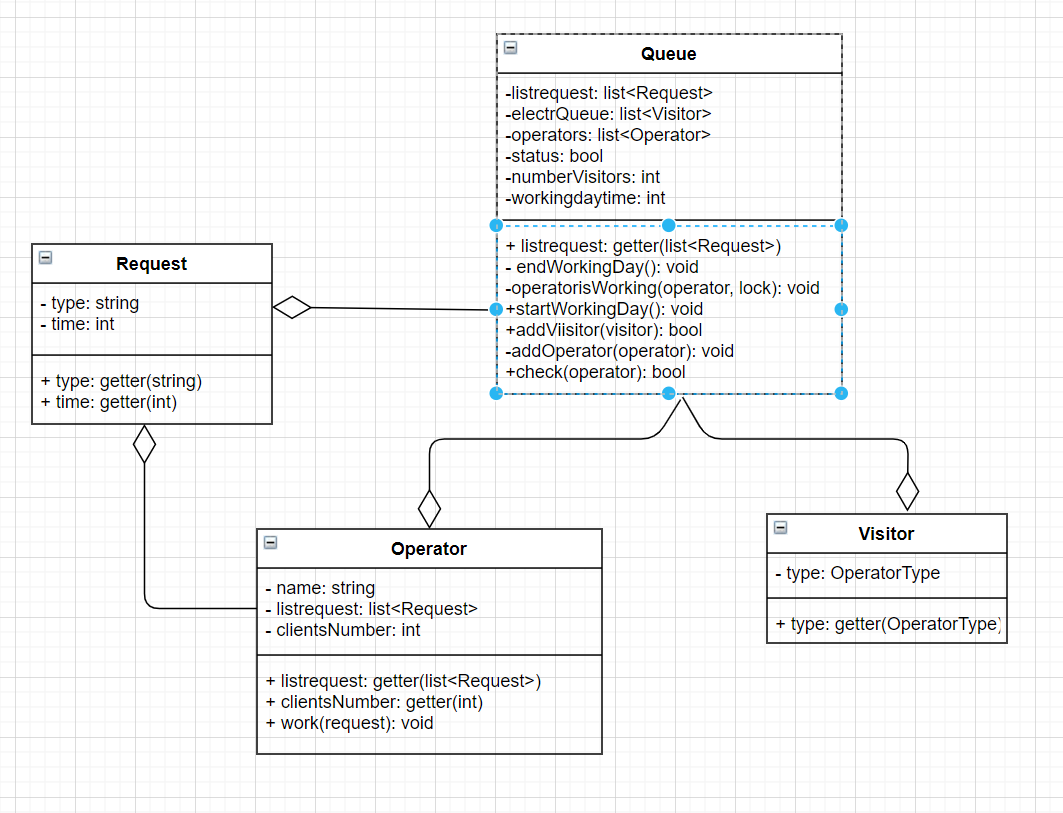
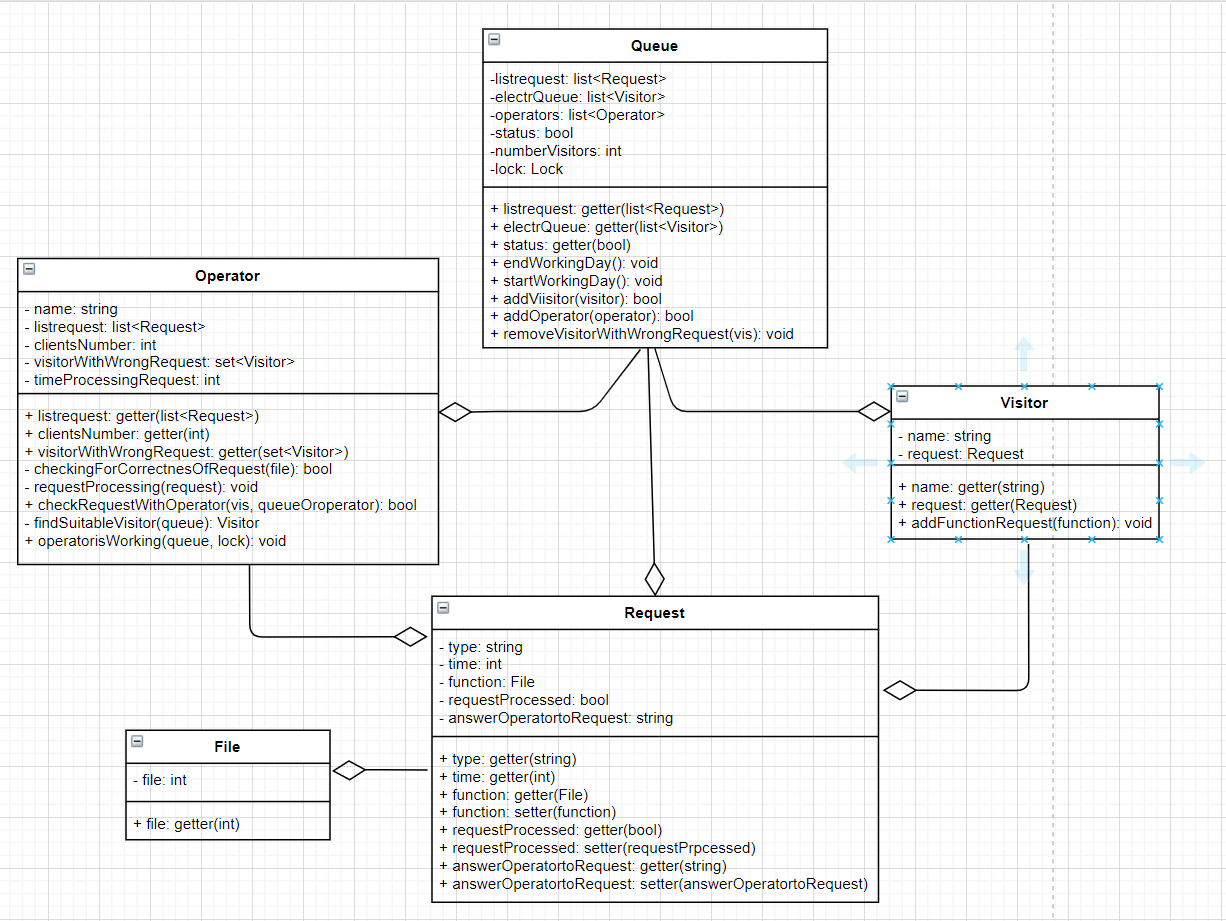
add file

diff --git a/3/electrqueue.py b/3/electrqueue.py
@@ -1,14 +1,15 @@
 import threading
-class Queue():
-    __slots__ = ['__electrQueue', '__operators', '__listrequest', '__status', '__numberVisitors', '__workingDayTime' ]
 
-    def __init__(self, workingdaytime, listrequest):
+class Queue():
+    __slots__ = ['__electrQueue', '__operators', '__listrequest', '__status', '__numberVisitors', '__lock']
+
+    def __init__(self, listrequest):
         self.__listrequest = listrequest
         self.__electrQueue = list()
         self.__operators = list()
         self.__status = False
         self.__numberVisitors = 0
-        self.__workingDayTime = workingdaytime
+        self.__lock = threading.Lock()
 
     def __str__(self):
         return 'In queue {} visitors'.format(len(self.__electrQueue))
@@ -22,49 +23,37 @@ class Queue():
     def listrequest(self):
         return self.__listrequest
 
-    def __endWorkingDay(self):
-        self.__status = False
-        while True:
-            if threading.active_count() == 2:
-                break
+    @property
+    def electrQueue(self):
+        return self.__electrQueue
 
-    def __operatorisWorking(self, operator, lock):
-        while self.__status:
-            lock.acquire()
-            if len(self.__electrQueue):
-                vis = self.__electrQueue[-1]
-                for request in operator.listrequest:
-                    if vis.type == request.type:
-                        self.__electrQueue.pop()
-                        lock.release()
-                        operator.work(request)
-                        break
-                else:
-                    lock.release()
-            else:
-                lock.release()
+    @property
+    def status(self):
+        return self.__status
+
+    def endWorkingDay(self):
+        self.__status = False
 
     def startWorkingDay(self):
         self.__status = True
-        lock = threading.Lock()
         for op in self.__operators:
-            threading.Thread(target=self.__operatorisWorking, args=[op, lock]).start()
-        threading.Timer(self.__workingDayTime, self.__endWorkingDay).start()
+            threading.Thread(target=op.operatorisWorking, args=[self, self.__lock]).start()
 
     def addVisitor(self, visitor):
         for op in self.__operators:
-            for request in op.listrequest:
-                if visitor.type == request.type:
-                    self.__electrQueue.append(visitor)
-                    self.__numberVisitors += 1
-                    return True
+            if op.checkRequestWithOperator(visitor, False):
+                self.__electrQueue.append(visitor)
+                self.__numberVisitors += 1
+                return True
+        visitor.request.requestProcessed = False
         return False
 
-    def __addOperator(self, operator):
-        self.__operators.append(operator)
-
-    def check(self, operator):
+    def addOperator(self, operator):
         if set(operator.listrequest).isdisjoint(self.listrequest):
             return False
         else:
-            self.__addOperator(operator)
+            self.__operators.append(operator)
+
+    def removeVisitorWithWrongRequest(self, vis):
+        for op in self.__operators:
+            op.visitorWithWrongRequest.discard(vis)

diff --git a/3/operatr.py b/3/operatr.py
@@ -1,12 +1,14 @@
 import time
 
 class Operator():
-    __slots__ = ['__name', '__listrequest', '__clientsNumber']
+    __slots__ = ['__name', '__listrequest', '__clientsNumber', '__visitorWithWrongRequest', '__timeProcessingRequest']
 
     def __init__(self, name, listrequest):
         self.__name = name
         self.__listrequest = listrequest
         self.__clientsNumber = 0
+        self.__visitorWithWrongRequest = set()
+        self.__timeProcessingRequest = None
 
     def __del__(self):
         print('{} serve {} visitors'.format(self.__name, self.__clientsNumber))
@@ -19,6 +21,57 @@ class Operator():
     def clientsNumber(self):
         return self.__clientsNumber
 
-    def work(self, request):
+    @property
+    def visitorWithWrongRequest(self):
+        return self.__visitorWithWrongRequest
+
+    def __checkingForСorrectnesOfRequest(self, file):
+        if(file > 5):
+            return True
+        else:
+            return False
+
+    def __requestProcessing(self, request):
         self.__clientsNumber += 1
-        time.sleep(request.time)
+        correct = self.__checkingForСorrectnesOfRequest(request.function.file)
+        time.sleep(self.__timeProcessingRequest)
+        if(correct):
+            request.requestProcessed = True
+            request.answerOperatortoRequest = 'File more than 5'
+        else:
+            request.requestProcessed = False
+            request.answerOperatortoRequest = 'File less than 5'
+
+    def checkRequestWithOperator(self, vis, queueOroperator = True):
+        for request in self.__listrequest:
+            if vis.request.type == request.type:
+                if queueOroperator:
+                    self.__timeProcessingRequest = request.time
+                return True
+        return False
+
+    def __findSuitableVisitor(self, queue):
+        if len(queue.electrQueue):
+            vis = queue.electrQueue[0]
+            index = 1
+            while vis in self.__visitorWithWrongRequest and index < len(queue.electrQueue):
+                vis = queue.electrQueue[index]
+                index += 1
+            if self.checkRequestWithOperator(vis):
+                queue.removeVisitorWithWrongRequest(vis)
+                queue.electrQueue.remove(vis)
+                return vis
+            else:
+                self.__visitorWithWrongRequest.add(vis)
+                return None
+        else:
+            return None
+
+    def operatorisWorking(self, queue, lock):
+        while queue.status:
+            lock.acquire()
+            vis = self.__findSuitableVisitor(queue)
+            lock.release()
+            if vis != None:
+                self.__requestProcessing(vis.request)
+        self.__visitorWithWrongRequest.clear()

diff --git a/3/request.py b/3/request.py
@@ -1,10 +1,13 @@
 
 class Request():
-    __slots__ = ['__type', '__time']
+    __slots__ = ['__type', '__time', '__function', '__requestProcessed', '__answerOperatortoRequest']
 
-    def __init__(self, type, time):
+    def __init__(self, type, time = None):
         self.__type = type
         self.__time = time
+        self.__function = None
+        self.__requestProcessed = None
+        self.__answerOperatortoRequest = None
 
     @property
     def type(self):
@@ -14,3 +17,26 @@ class Request():
     def time(self):
         return self.__time
 
+    @property
+    def function(self):
+        return self.__function
+
+    @function.setter
+    def function(self, function):
+        self.__function = function
+
+    @property
+    def requestProcessed(self):
+        return self.__requestProcessed
+
+    @requestProcessed.setter
+    def requestProcessed(self, requestProcessed):
+        self.__requestProcessed = requestProcessed
+
+    @property
+    def answerOperatortoRequest(self):
+        return self.__answerOperatortoRequest
+
+    @answerOperatortoRequest.setter
+    def answerOperatortoRequest(self, answerOperatortoRequest):
+        self.__answerOperatortoRequest = answerOperatortoRequest

diff --git a/3/test.py b/3/test.py
@@ -2,24 +2,28 @@ from electrqueue import Queue
 from visitor import Visitor
 from operatr import Operator
 from request import Request
+from file import File
 import random
+import time
 
 request1 = Request('PAYTAXES', 1)
 request2 = Request('OPENBUSINESS', 1)
 request3 = Request('ASKQUESTION', 1)
 
-
-queue = Queue(10, [request1, request2, request3])
+queue = Queue([request1, request2, request3])
 
 operator1 = Operator('Bot1', [request1])
 operator2 = Operator('Bot2', [request2])
 operator3 = Operator('Bot3', [request3])
 
-queue.check(operator1)
-queue.check(operator2)
-queue.check(operator3)
+queue.addOperator(operator1)
+queue.addOperator(operator2)
+queue.addOperator(operator3)
 
 queue.startWorkingDay()
-for i in range(20):
-    visitor = Visitor(queue.listrequest[random.randint(0, 2)].type)
+for i in range(10):
+    visitor = Visitor('Vis' + str(i+1), Request(queue.listrequest[random.randint(0, 2)].type))
+    visitor.addFunctionRequest(File(i + 1))
     queue.addVisitor(visitor)
+time.sleep(5)
+queue.endWorkingDay()

diff --git a/3/visitor.py b/3/visitor.py
@@ -1,10 +1,18 @@
 
 class Visitor():
-    __slots__ = ['__type']
+    __slots__ = ['__name', '__request']
 
-    def __init__(self, type):
-        self.__type = type
+    def __init__(self, name, request):
+        self.__name = name
+        self.__request = request
 
     @property
-    def type(self):
-        return self.__type
+    def name(self):
+        return self.__name
+
+    @property
+    def request(self):
+        return self.__request
+
+    def addFunctionRequest(self, function):
+        self.__request.function = function

diff --git a/3/file.py b/3/file.py
@@ -1,0 +1,10 @@
+
+class File():
+    __slots__ = ['__file']
+
+    def __init__(self, file):
+        self.__file = file
+
+    @property
+    def file(self):
+        return self.__file
